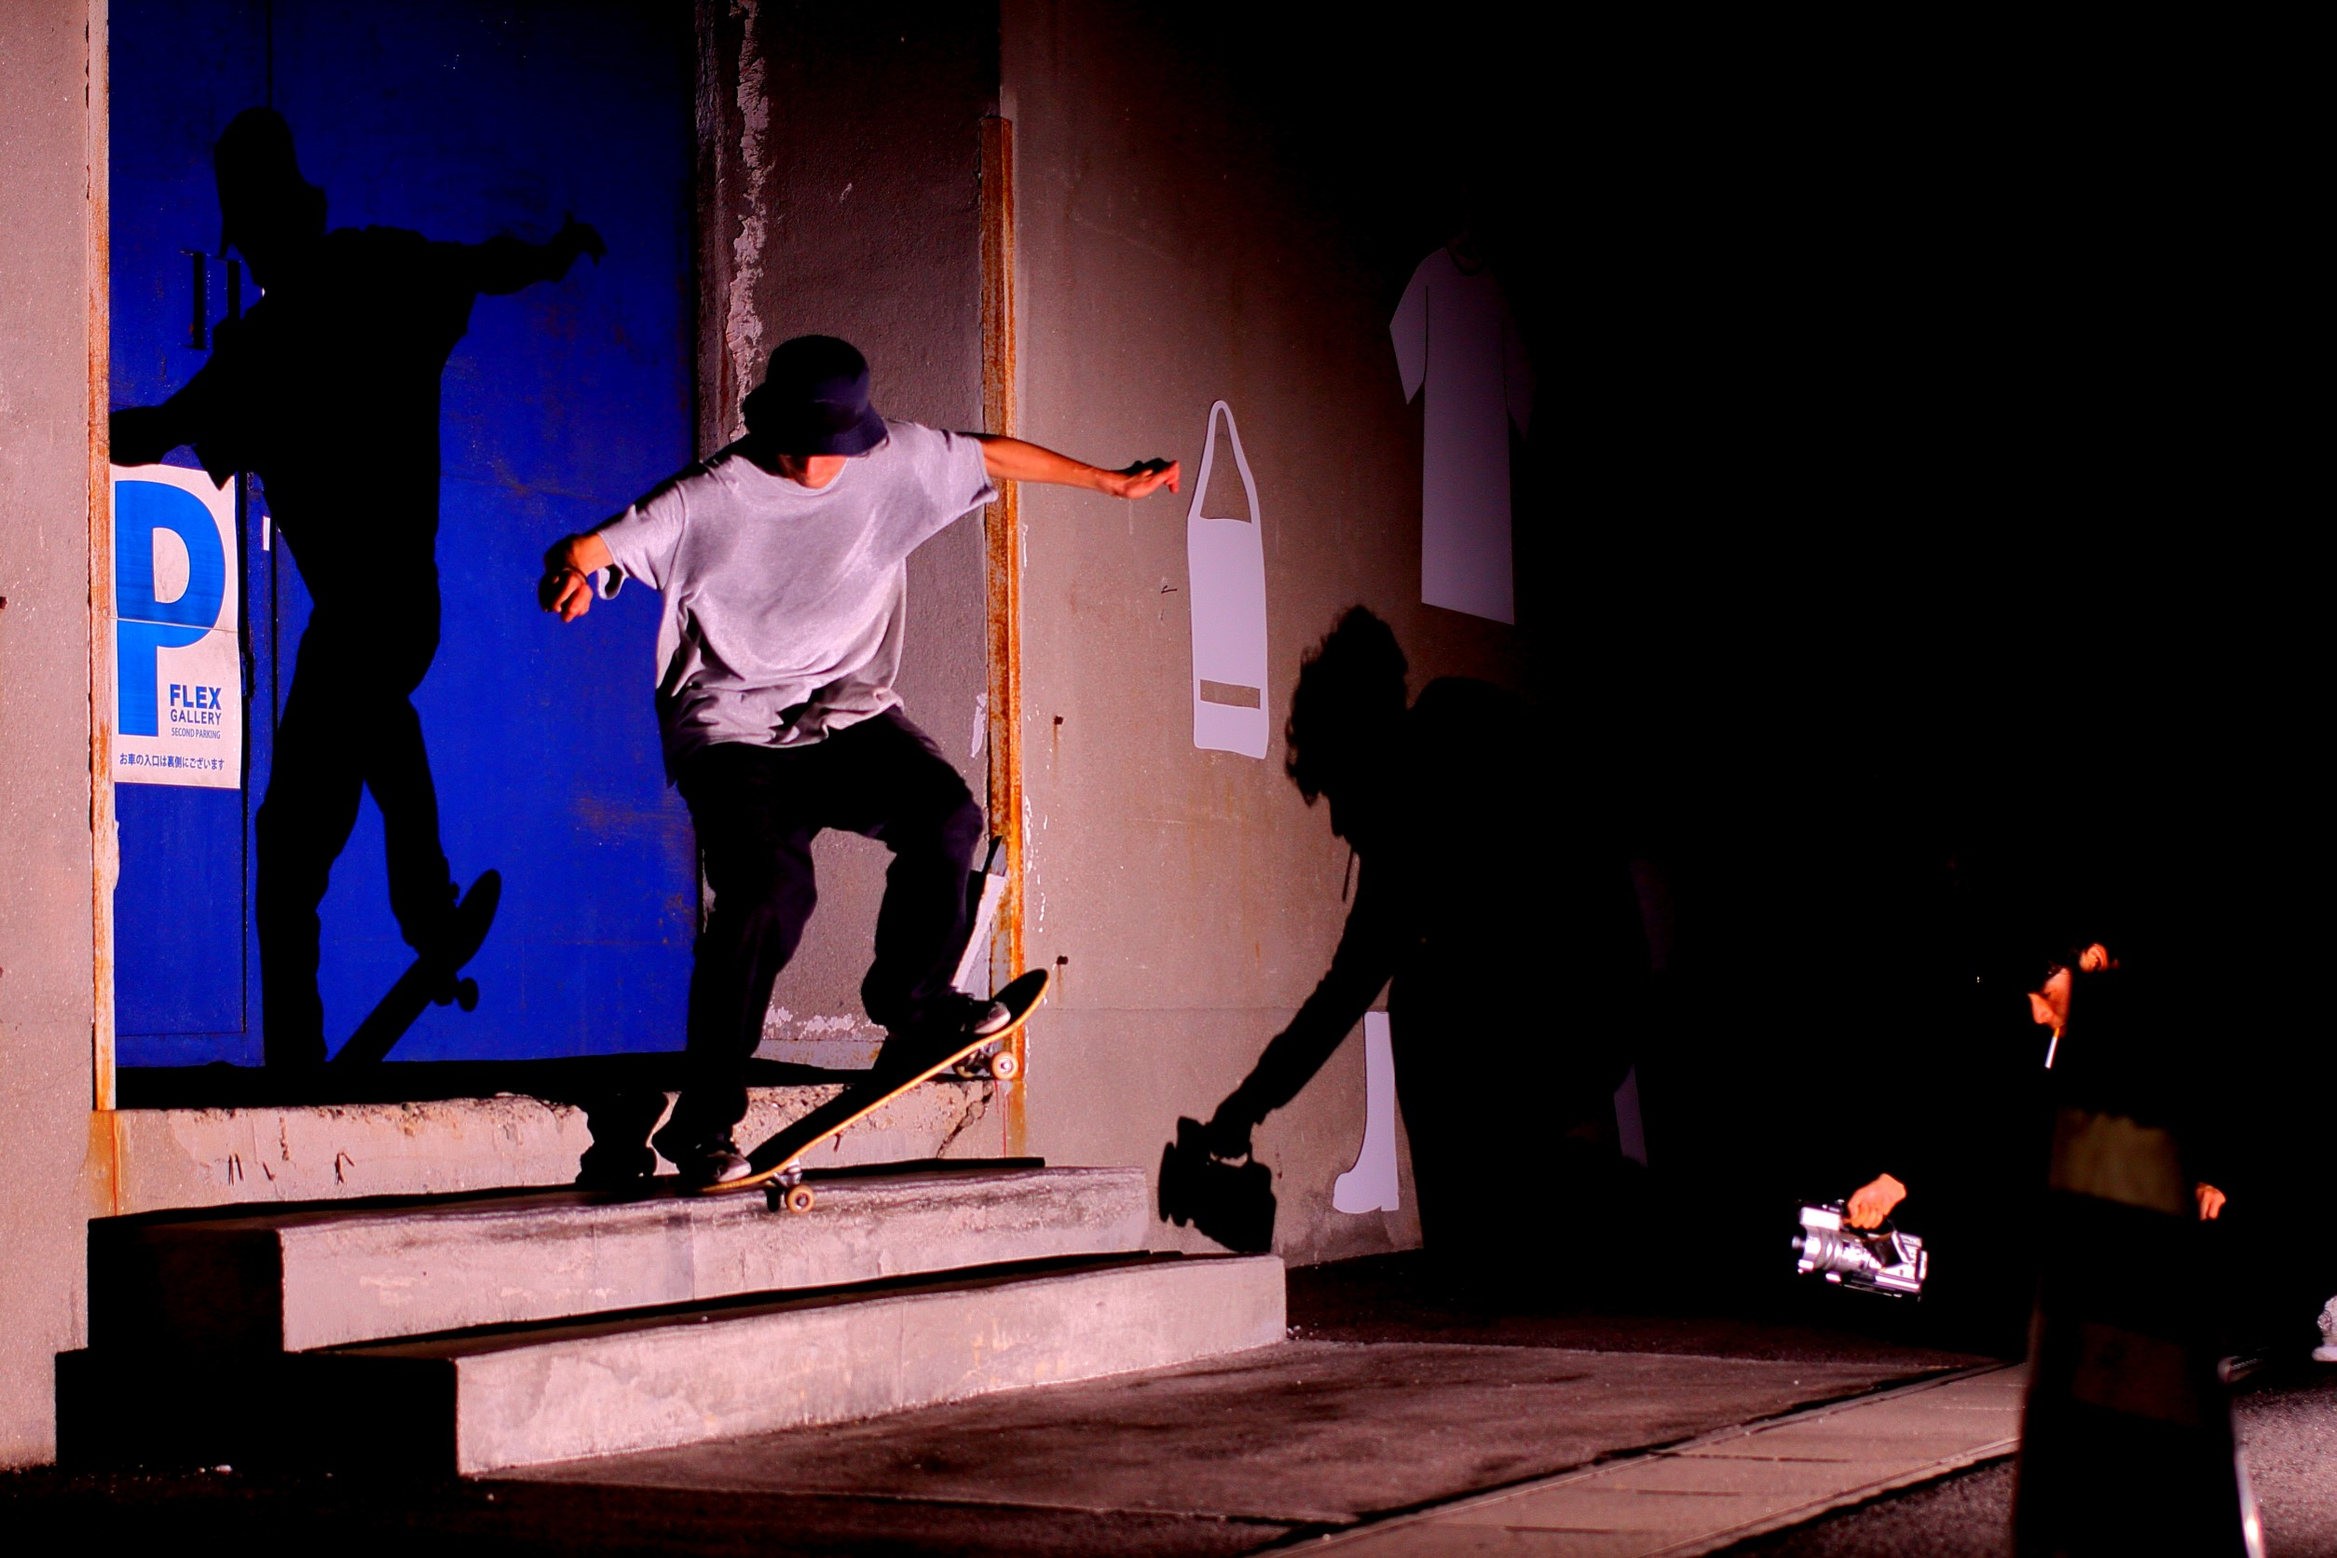
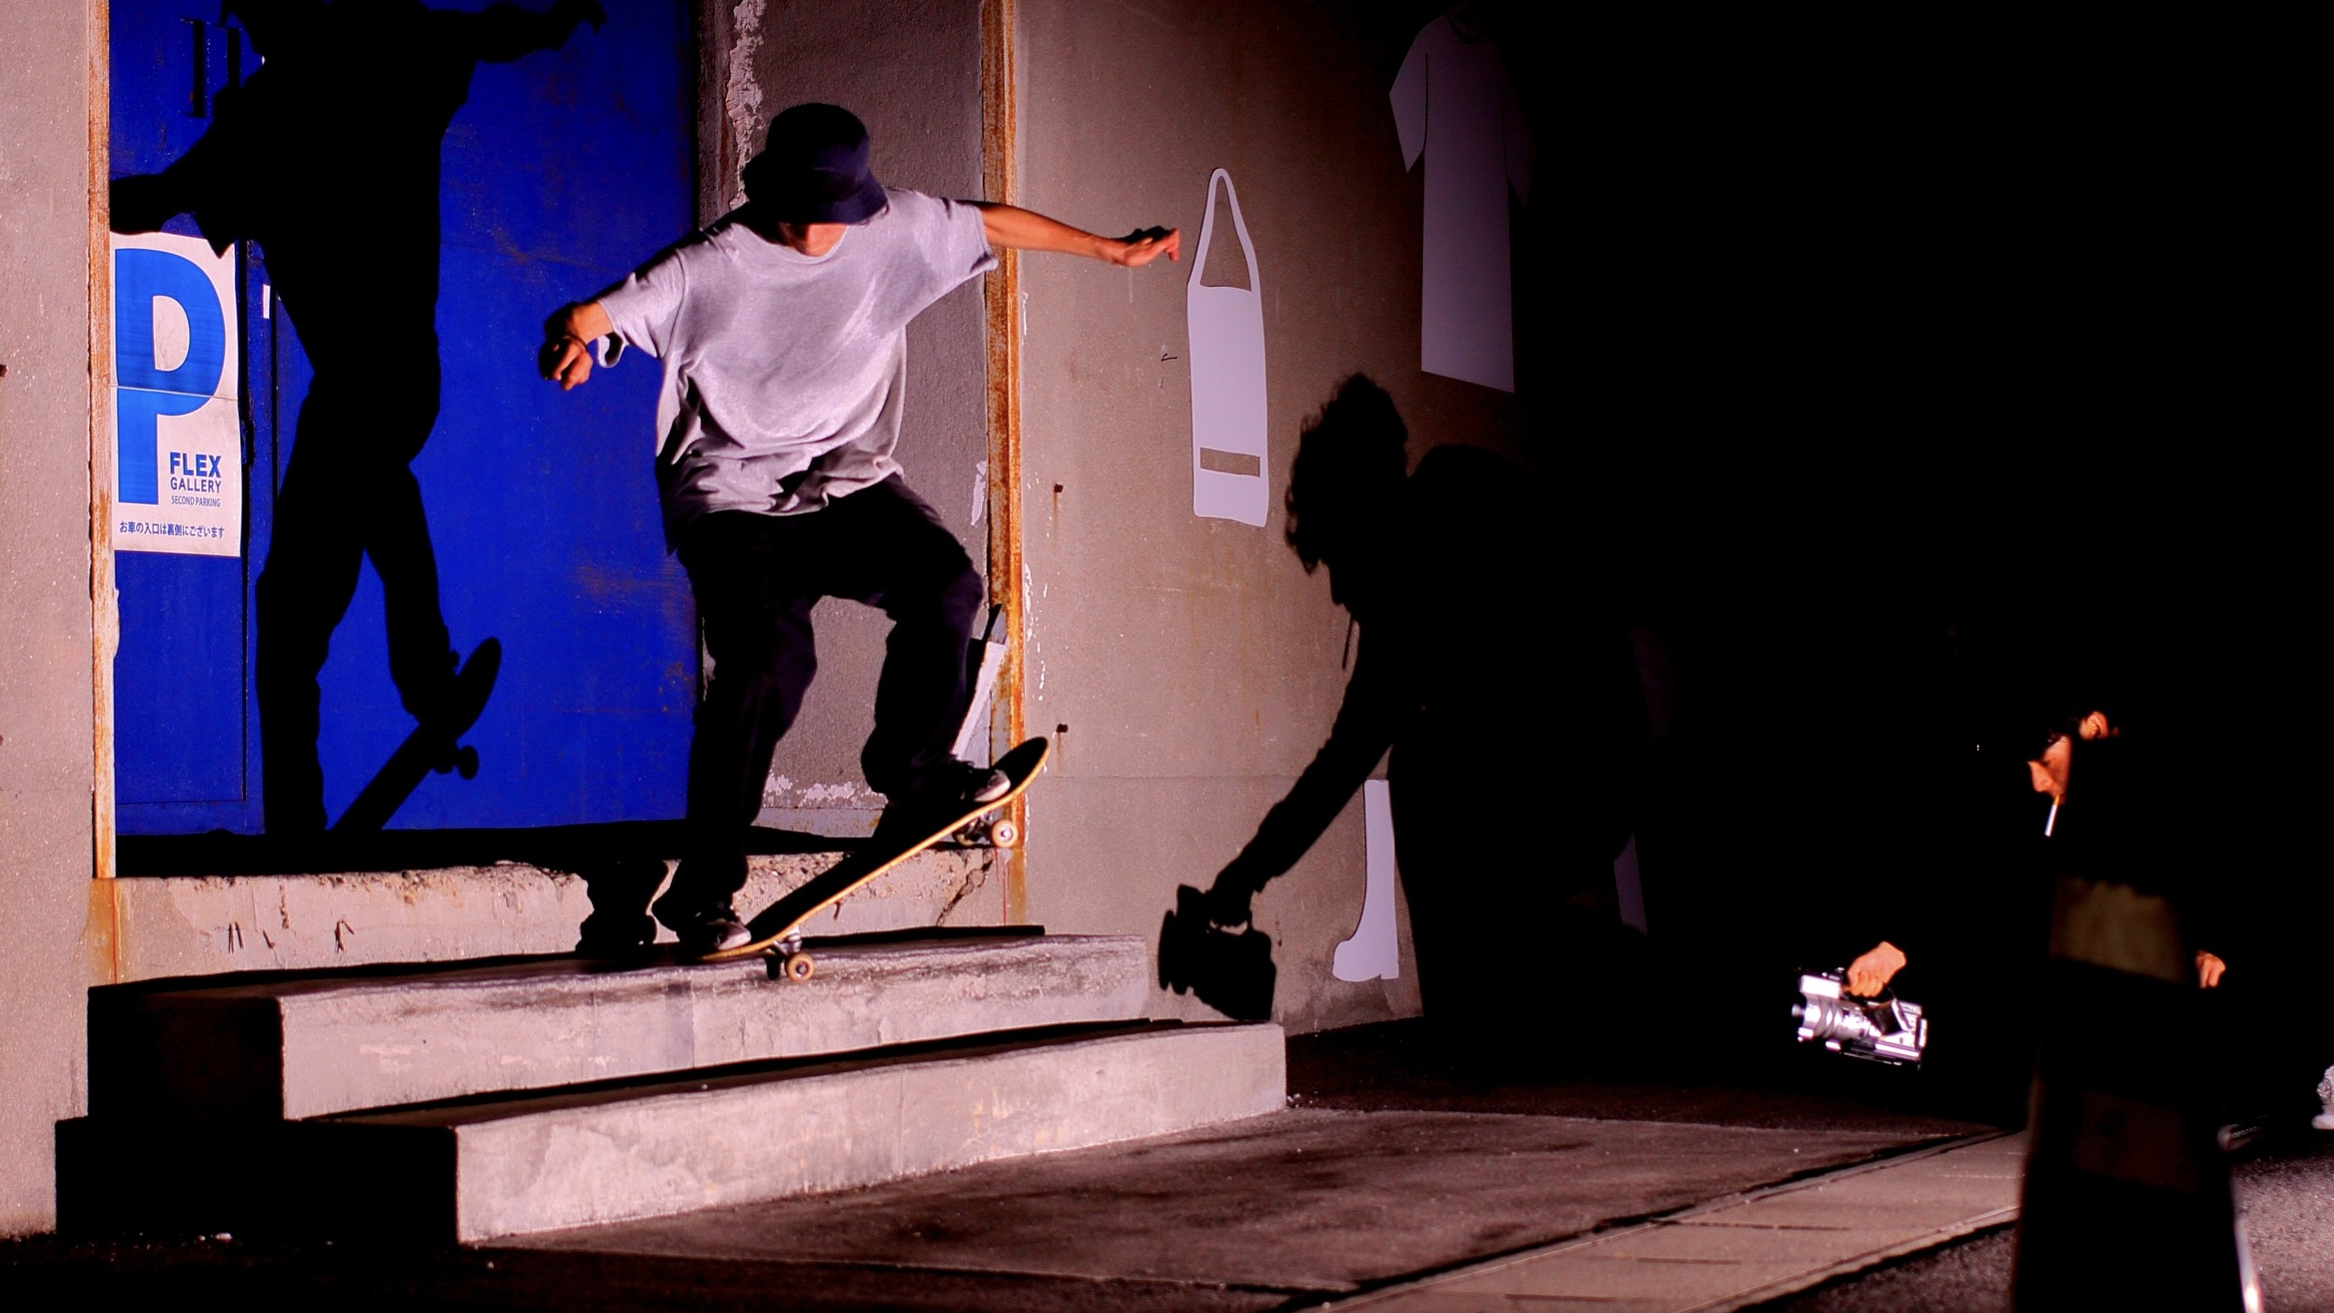
Responsive CSS Media Query Styling

diff --git a/style.css b/style.css
@@ -128,12 +128,63 @@ hr.light-100 {
   margin-top: .8rem;
   margin-bottom: 1rem;
 }
+
 /* Media Queries */
 @media (max-width: 992px) {
+  .social a {
+    font-size: 4rem;
+    padding: 2rem;
+  }
 }
 @media (max-width: 768px) {
+  .carousel-caption {
+    top: 45%;
+  }
+  .carousel-caption h1 {
+    font-size: 350%;
+  }
+  .carousel-caption h3 {
+    font-size: 140%;
+    font-weight: 400;
+    padding-bottom: .2rem;
+  }
+  .carousel-caption .btn {
+    font-size: 95%;
+    padding: 8px 14px;
+  }
+  .display-4 {
+    font-size: 200%;
+  }
+  .social a {
+    font-size: 2.5rem;
+    padding: 1.2rem;
+  }
 }
+
 @media (max-width: 576px) {
+  .carousel-caption {
+    top: 40%;
+  }
+  .carousel-caption h1 {
+    font-size: 250%;
+  }
+  .carousel-caption h3 {
+    font-size: 110%;
+  }
+  .carousel-caption .btn {
+    font-size: 90%;
+    padding: 4px 8px;
+  }
+  .carousel-indicators {
+    display: none;
+  }
+  .display-4 {
+    font-size: 160%;
+  }
+  .social a {
+    font-size: 2rem;
+    padding: .7rem;
+  }
 }
 
 
@@ -183,12 +234,11 @@ figure {
   height: 35px;
 }
 .background {
-  height: 600px;
-  width: 1600px;
+  width: 100%;
   max-width: 100%;
 }
 .img {
-  width: 1600px;
+  width: 1300px;
   max-width: 100%;
   height: 400px;
 }
